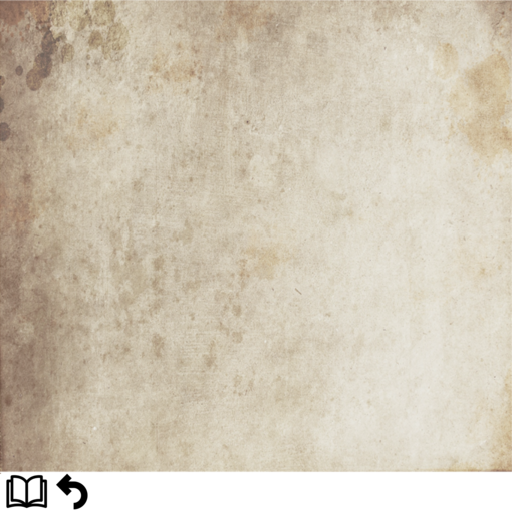
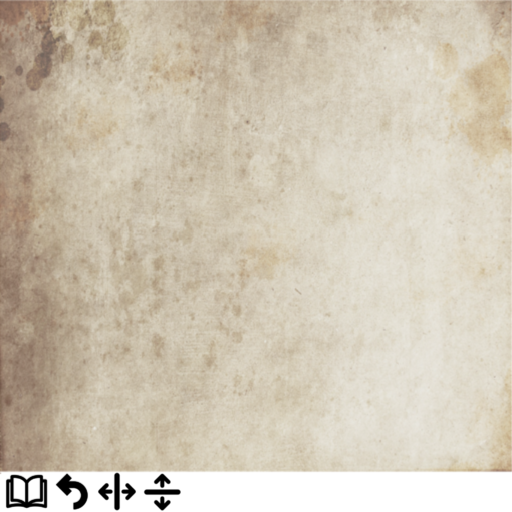
Add UI for clickable gate and valve

Changed region(s): [[0.1875, 0.9062, 0.375, 1.0], [0.0, 0.9062, 0.0938, 1.0], [0.125, 0.9375, 0.1562, 0.9688]]

diff --git a/src/moduleUI/UIobjects.ts b/src/moduleUI/UIobjects.ts
@@ -109,6 +109,40 @@ class PageUI extends SingleUI {
     }
 }
 
+class HintUI extends SingleUI {
+    constructor(
+        parent: any,
+        textureImg: Texture,
+        sourceLeft: number,
+        sourceTop: number,
+        sourceWidth: number,
+        sourceHeight: number,
+        width: number,
+        height: number,
+        positionX: number,
+        positionY: number
+    ) {
+        super(parent, textureImg, sourceLeft, sourceTop, sourceWidth, sourceHeight,
+            width, height, positionX, positionY)
+
+        this.uiImage.hAlign = 'center'
+        this.uiImage.vAlign = 'center'
+        this.uiImage.isPointerBlocker = false
+        this.uiImage.visible = true
+    }
+    show() {
+        this.uiImage.visible = true
+        //this.parent.visible = true
+    }
+    hide() {
+        this.uiImage.visible = false
+        //this.parent.visible = false
+    }
+    update(dt: number) {
+
+    }
+}
+
 //-----------------CREATE UI-------------------//
 
 export const canvas = new UICanvas()
@@ -124,6 +158,9 @@ export const rectIcon = new UIContainerRect(canvas) //for icon in the bottom
 createRect(rectIcon, 1)
 rectIcon.visible = true
 
+export const rectHint = new UIContainerRect(canvas) //for hint gate and valve
+createRect2(rectHint, 1)
+rectHint.visible = true
 
 //create collection of UIImage individual page
 const pages: PageUI[] = []
@@ -174,6 +211,15 @@ let journalSummaryBtn = new SingleUI(rectIcon, UIresources.texture.journalBackgr
 //audioBtnOff.uiImage.visible = false
 //audioBtnOn.uiImage.visible = false
 
+//create hint UI
+let valveHint = new HintUI(rectHint, UIresources.texture.journalBackground,
+    90, 474, 50, 50, 96, 96, -2, 28)
+let gateHint = new HintUI(rectHint, UIresources.texture.journalBackground,
+   140, 474, 50, 50, 96, 110, 5, 28)
+
+valveHint.hide()
+gateHint.hide()
+
 export default {
     UIObjects: {
         journalPage: journalPage,
@@ -182,6 +228,10 @@ export default {
             journalSummaryBtn: journalSummaryBtn,
             //audioBtnOff: audioBtnOff,
             //audioBtnOn: audioBtnOn
+        },
+        hint: {
+            valveHint: valveHint,
+            gateHint: gateHint
         }
     }
 }
@@ -194,5 +244,15 @@ function createRect(rect, opac){
     rect.positionX = 0
     rect.opacity = opac
     rect.visible = false
+    return rect
+}
+function createRect2(rect: UIContainerRect, opac) {
+    rect.height = '100%'
+    rect.width = '100%'
+    rect.hAlign = 'center'
+    rect.vAlign = 'center'
+    rect.opacity = opac
+    rect.visible = false
+    rect.isPointerBlocker = false
     return rect
 }

diff --git a/src/moduleUI/objraydetection.ts b/src/moduleUI/objraydetection.ts
@@ -1,0 +1,62 @@
+import UIclasses from "./UIobjects"
+
+const camera = Camera.instance
+const physicsCast = PhysicsCast.instance
+
+export class GateOrValveHit {
+    hitGate = false
+    hitValve = false
+    update(dt: number) {
+
+        let ray = physicsCast.getRayFromCamera(4)
+        let depth = 3
+        let count = 0
+
+        physicsCast.hitAll(ray, (e) => {
+            if (e.didHit) {
+                depth = 3
+                count = 0
+                this.hitGate = false
+                this.hitValve = false
+                for (let entityHit of e.entities) {
+                    count += 1
+                    //log(count)
+                    if (engine.entities[entityHit.entity.entityId].hasComponent(GLTFShape)) {
+                        if (engine.entities[entityHit.entity.entityId].getComponent(GLTFShape).src === 'models/bridges/gate.glb') {
+                            //log(count, "HIT GATE")
+                            this.hitGate = true
+                            break
+                        }
+                        else if (engine.entities[entityHit.entity.entityId].getComponent(GLTFShape).src === 'models/pipes/valveOnly.glb'
+                            || engine.entities[entityHit.entity.entityId].getComponent(GLTFShape).src === 'models/pipes/pipeEdgeValveA.glb'
+                            || engine.entities[entityHit.entity.entityId].getComponent(GLTFShape).src === 'models/pipes/pipeEdgeValveB.glb'
+                        ) {
+                            //log(count, "HIT VALVE")
+                            this.hitValve = true
+                            break
+                        }
+                        else {
+                        }
+                    }
+                    if (count === depth) {
+                        this.hitGate = false
+                        this.hitValve = false
+                        break
+                    }
+                }
+            }
+            else {
+                this.hitGate = false
+                this.hitValve = false
+            }
+            
+        })
+
+        //log("GATE: ", this.hitGate, "VALVE", this.hitValve)
+        if (this.hitGate) UIclasses.UIObjects.hint.gateHint.show()
+        else UIclasses.UIObjects.hint.gateHint.hide()
+
+        if (this.hitValve) UIclasses.UIObjects.hint.valveHint.show()
+        else UIclasses.UIObjects.hint.valveHint.hide()
+    }
+}

diff --git a/src/sceneaudio/sceneAudio.ts b/src/sceneaudio/sceneAudio.ts
@@ -19,11 +19,13 @@ export class AudioAmbient {
         engine.addSystem(this)
     }
     update(dt: number) {
-        this.entity.getComponent(Transform).position.copyFrom(camera.position)
-        //audio adjustment
-        this.entity.getComponent(Transform).position.x -= 8
-        this.entity.getComponent(Transform).position.y -= 3
-        this.entity.getComponent(Transform).position.z -= 2
+        if (inBound(camera.position)) {
+            this.entity.getComponent(Transform).position.copyFrom(camera.position)
+            //audio adjustment
+            this.entity.getComponent(Transform).position.x -= 8
+            this.entity.getComponent(Transform).position.y -= 3
+            this.entity.getComponent(Transform).position.z -= 2
+        }
     }
 }
 
@@ -47,4 +49,11 @@ export class AudioWindmill {
         this.entity.getComponent(Transform).position.y -= 3
         this.entity.getComponent(Transform).position.z -= 2
     }
+}
+
+function inBound(vect: Vector3) {
+    if (vect.x > 0 && vect.x < 90
+        && vect.z > 0 && vect.z < 48)
+        return true
+    return false
 }

diff --git a/src/particle/particleSys.ts b/src/particle/particleSys.ts
@@ -246,13 +246,13 @@ class ParticleSysFloating extends ParticleSys {
 }
 
 //const initialColor1 = new Color3(1, 0, 0)
-const finalColor1 = new Color3(1, 0, 0)
+const finalColor1 = new Color3(0, 0, 1)
 const material1 = new Material()
 material1.albedoColor = finalColor1
 material1.emissiveColor = finalColor1
 //material1.albedoColor = Color3.Lerp(initialColor1, finalColor1, 1 / 5)
 //material1.emissiveColor = Color3.Lerp(initialColor1, finalColor1, 1 / 11)
-material1.emissiveIntensity = 10
+material1.emissiveIntensity = 20
 
 //const initialColor2 = new Color3(1, 1, 0)
 const finalColor2 = new Color3(1, 1, 0)
@@ -261,7 +261,7 @@ material2.albedoColor = finalColor2
 material2.emissiveColor = finalColor2
 //material2.albedoColor = Color3.Lerp(initialColor2, finalColor2, 1 / 5)
 //material2.emissiveColor = Color3.Lerp(initialColor2, finalColor2, 1 / 11)
-material2.emissiveIntensity = 10
+material2.emissiveIntensity = 20
 
 export class ParticleScenes {
     constructor() {

diff --git a/src/game.ts b/src/game.ts
@@ -4,7 +4,7 @@ import {HouseAndBridgeBuilder} from 'scenery/houseandbridgebuilder';
 import {PuzzleBuilder} from 'puzzlestate/puzzlebuilder';
 import {HumanoidTree} from 'scenery/humanoidtree';
 import {Windmill} from 'scenery/windmill'
-import {UI} from 'moduleUI/ui';
+import {UI, HintUI} from 'moduleUI/ui';
 import {ParticleScenes} from 'particle/particleSys';
 import {AudioAmbient, AudioWindmill} from 'sceneaudio/sceneAudio';
 
@@ -67,8 +67,11 @@ let ui = new UI([
 const pS = new ParticleScenes();
 
 //Add audio for day ambient and windmill
-let audioWindmill = new AudioWindmill()
-let audioAmbient = new AudioAmbient()
+let audioWindmill = new AudioWindmill();
+let audioAmbient = new AudioAmbient();
+
+//Add valve and gate UI when crosshair pointing at gate or valve
+let hintUI = new HintUI();
 
 // Instance the input object
 /*

diff --git a/src/moduleUI/ui.ts b/src/moduleUI/ui.ts
@@ -1,5 +1,6 @@
 import { journalPage } from "./pageModel"
 import { gameUI } from "./UIgroup"
+import { GateOrValveHit } from "./objraydetection"
 
 export class UI {
     constructor(positions: Vector3[]) {
@@ -13,4 +14,10 @@ export class UI {
         return gameUI.getAudioState()
     }
     */
+}
+
+export class HintUI {
+    constructor() {
+        engine.addSystem(new GateOrValveHit())
+    }
 }
